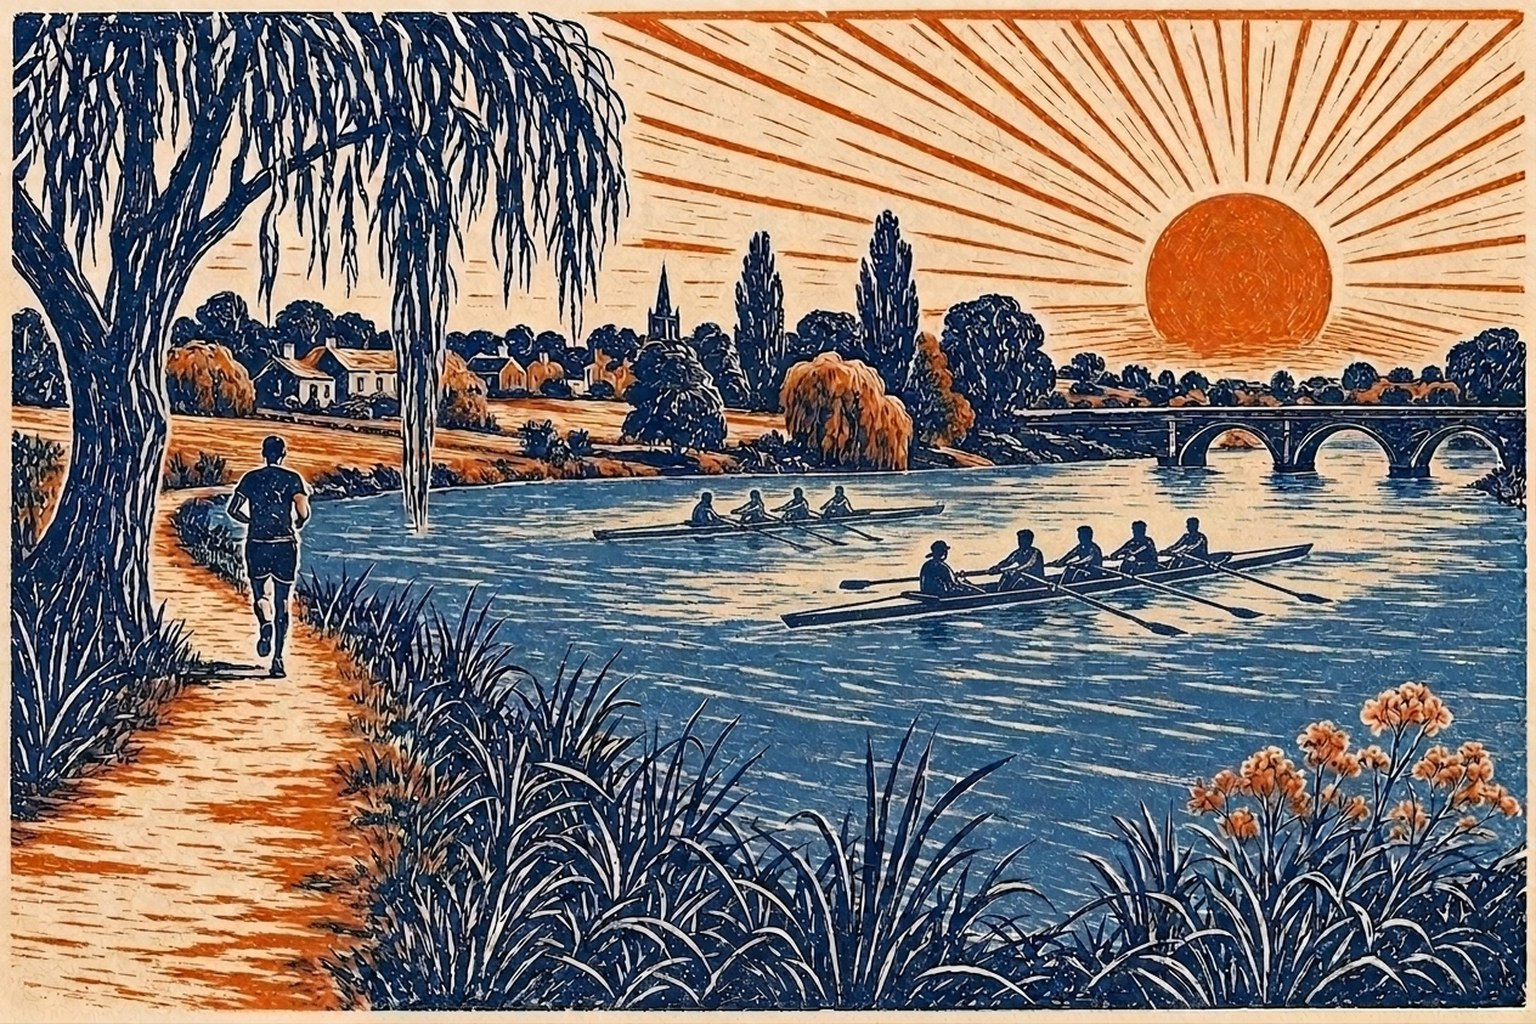
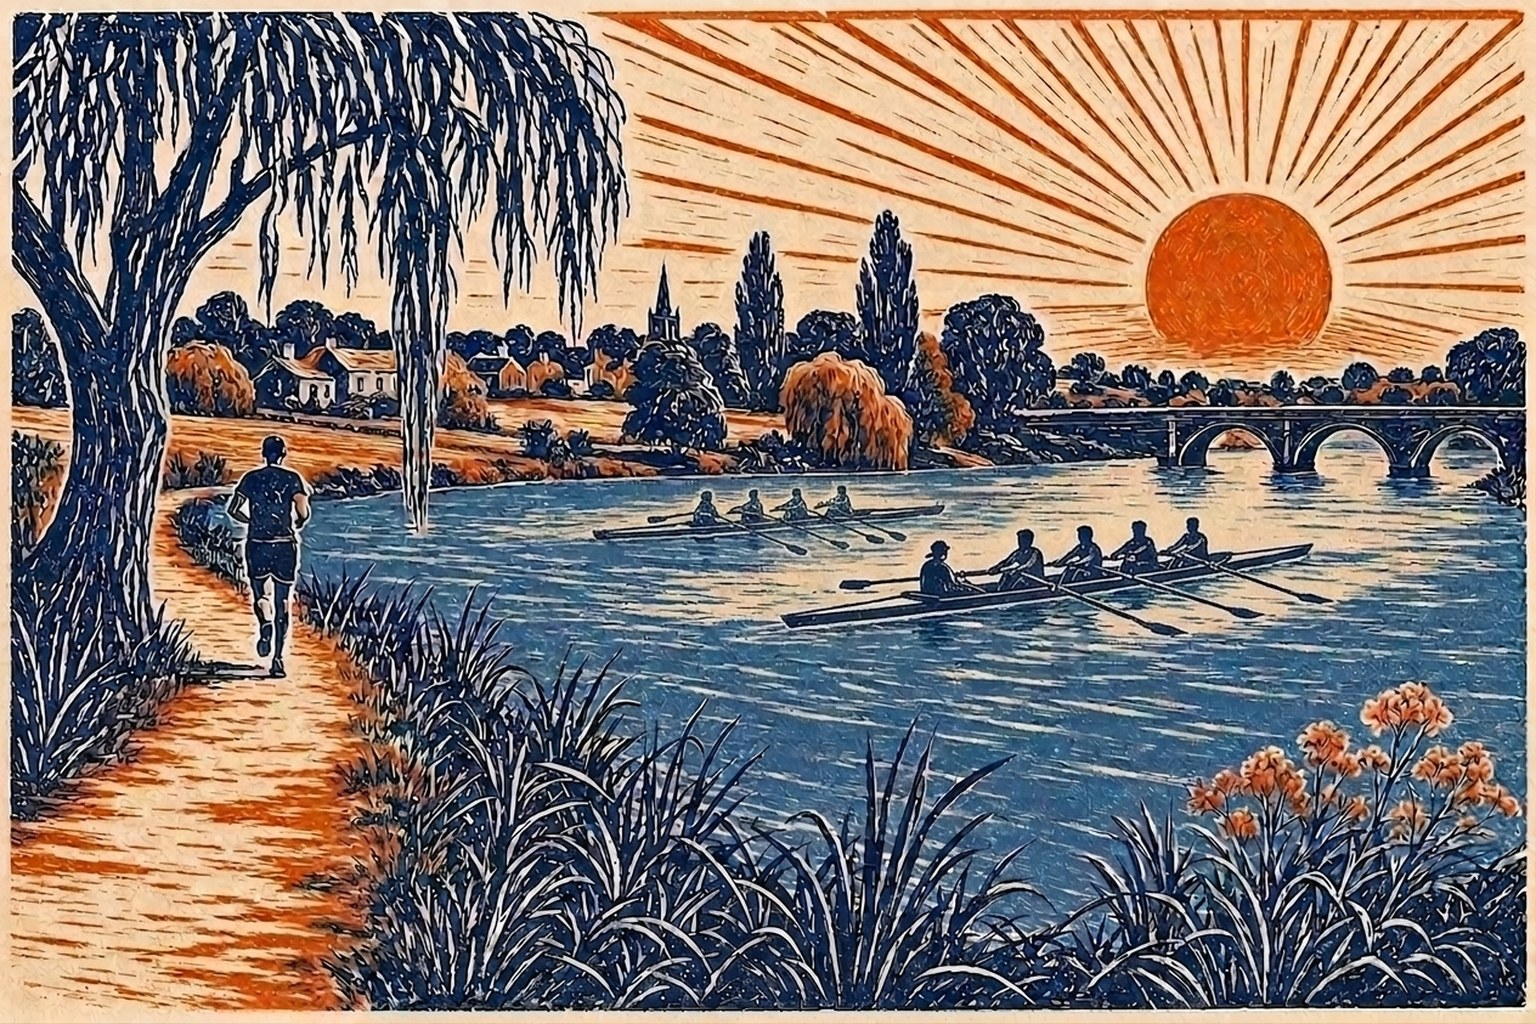
Hero print: give the bow rower in the background four an oar
The background boat had 4 rowers but only 3 oars in the water. All four
rowers now have evenly spaced oars; foreground coxed four untouched.
SW cache bumped.

diff --git a/sw.js b/sw.js
@@ -1,6 +1,6 @@
 /* Network-first service worker: the app always prefers fresh data, but the
    shell keeps working offline (e.g. mid-trail with no signal). */
-const CACHE = "tpu-journal-3";
+const CACHE = "tpu-journal-4";
 const SHELL = [
   "/",
   "/index.html",
